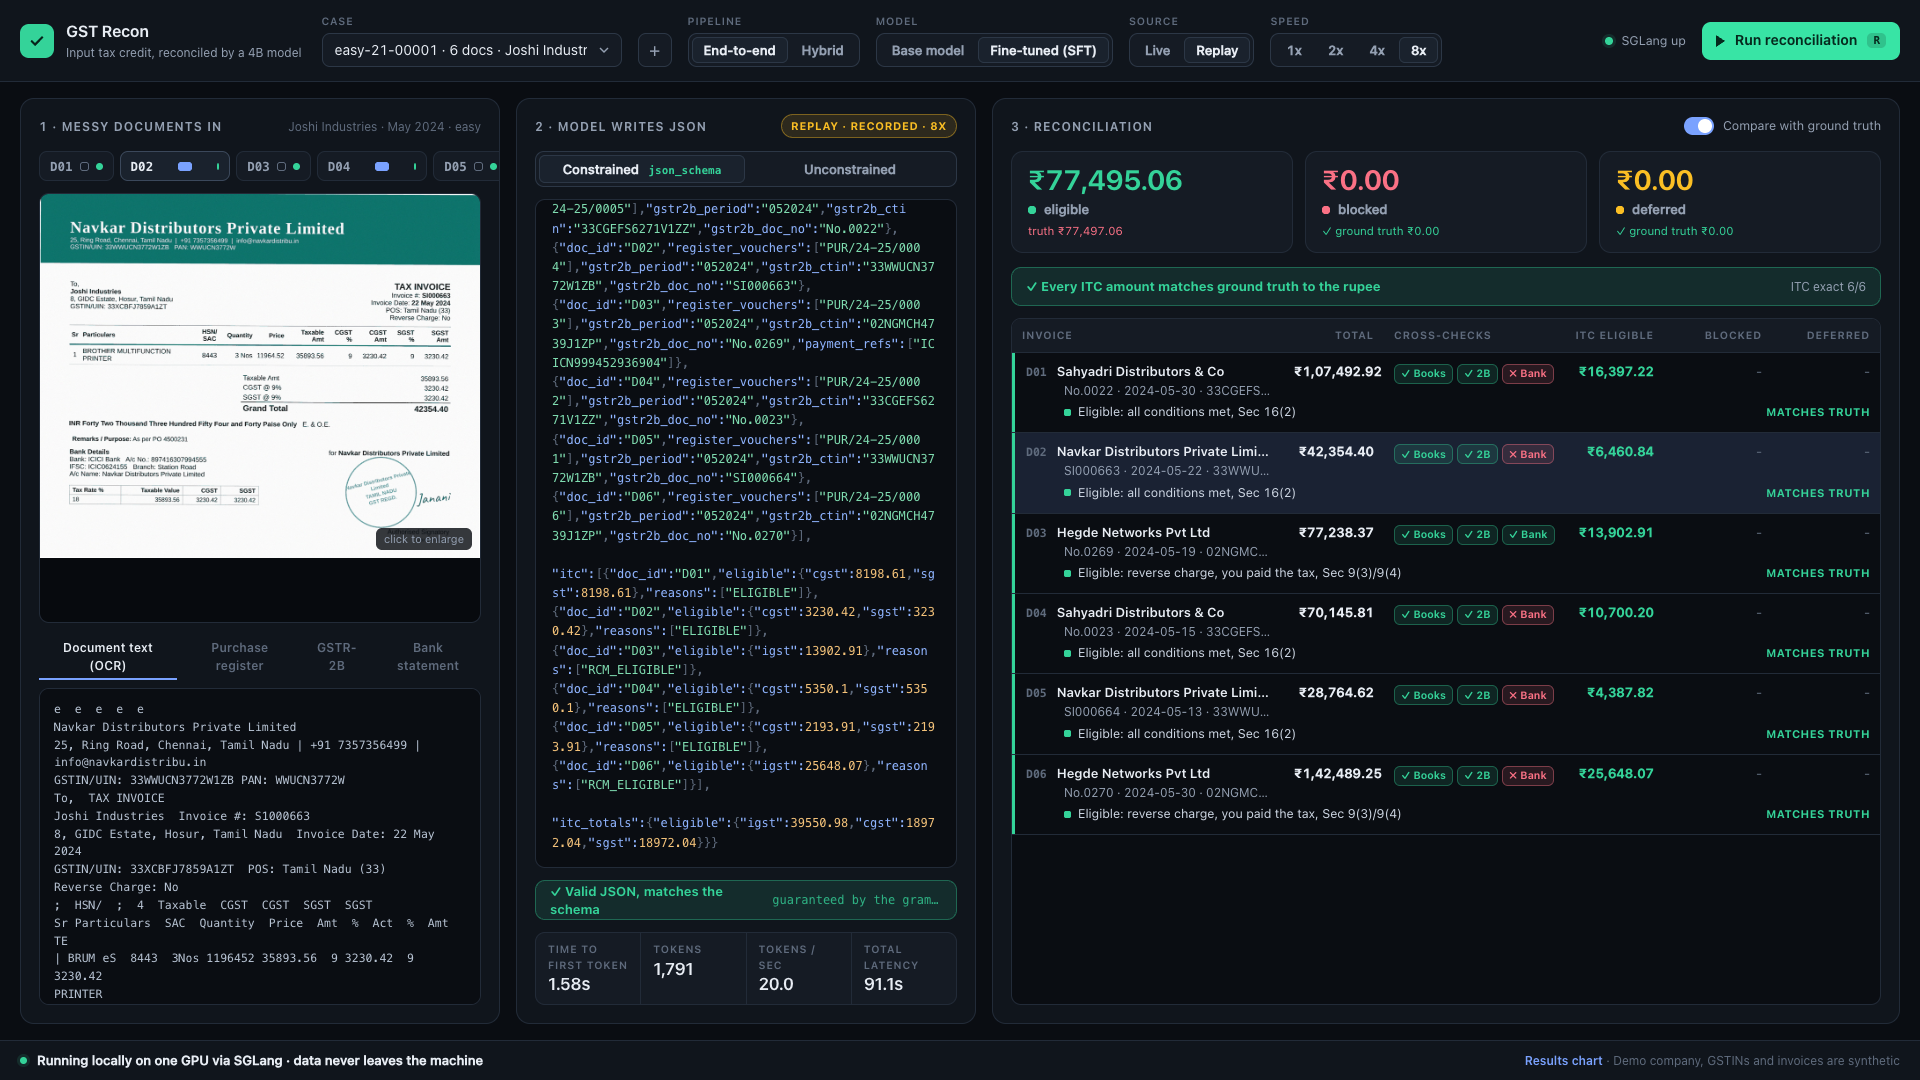
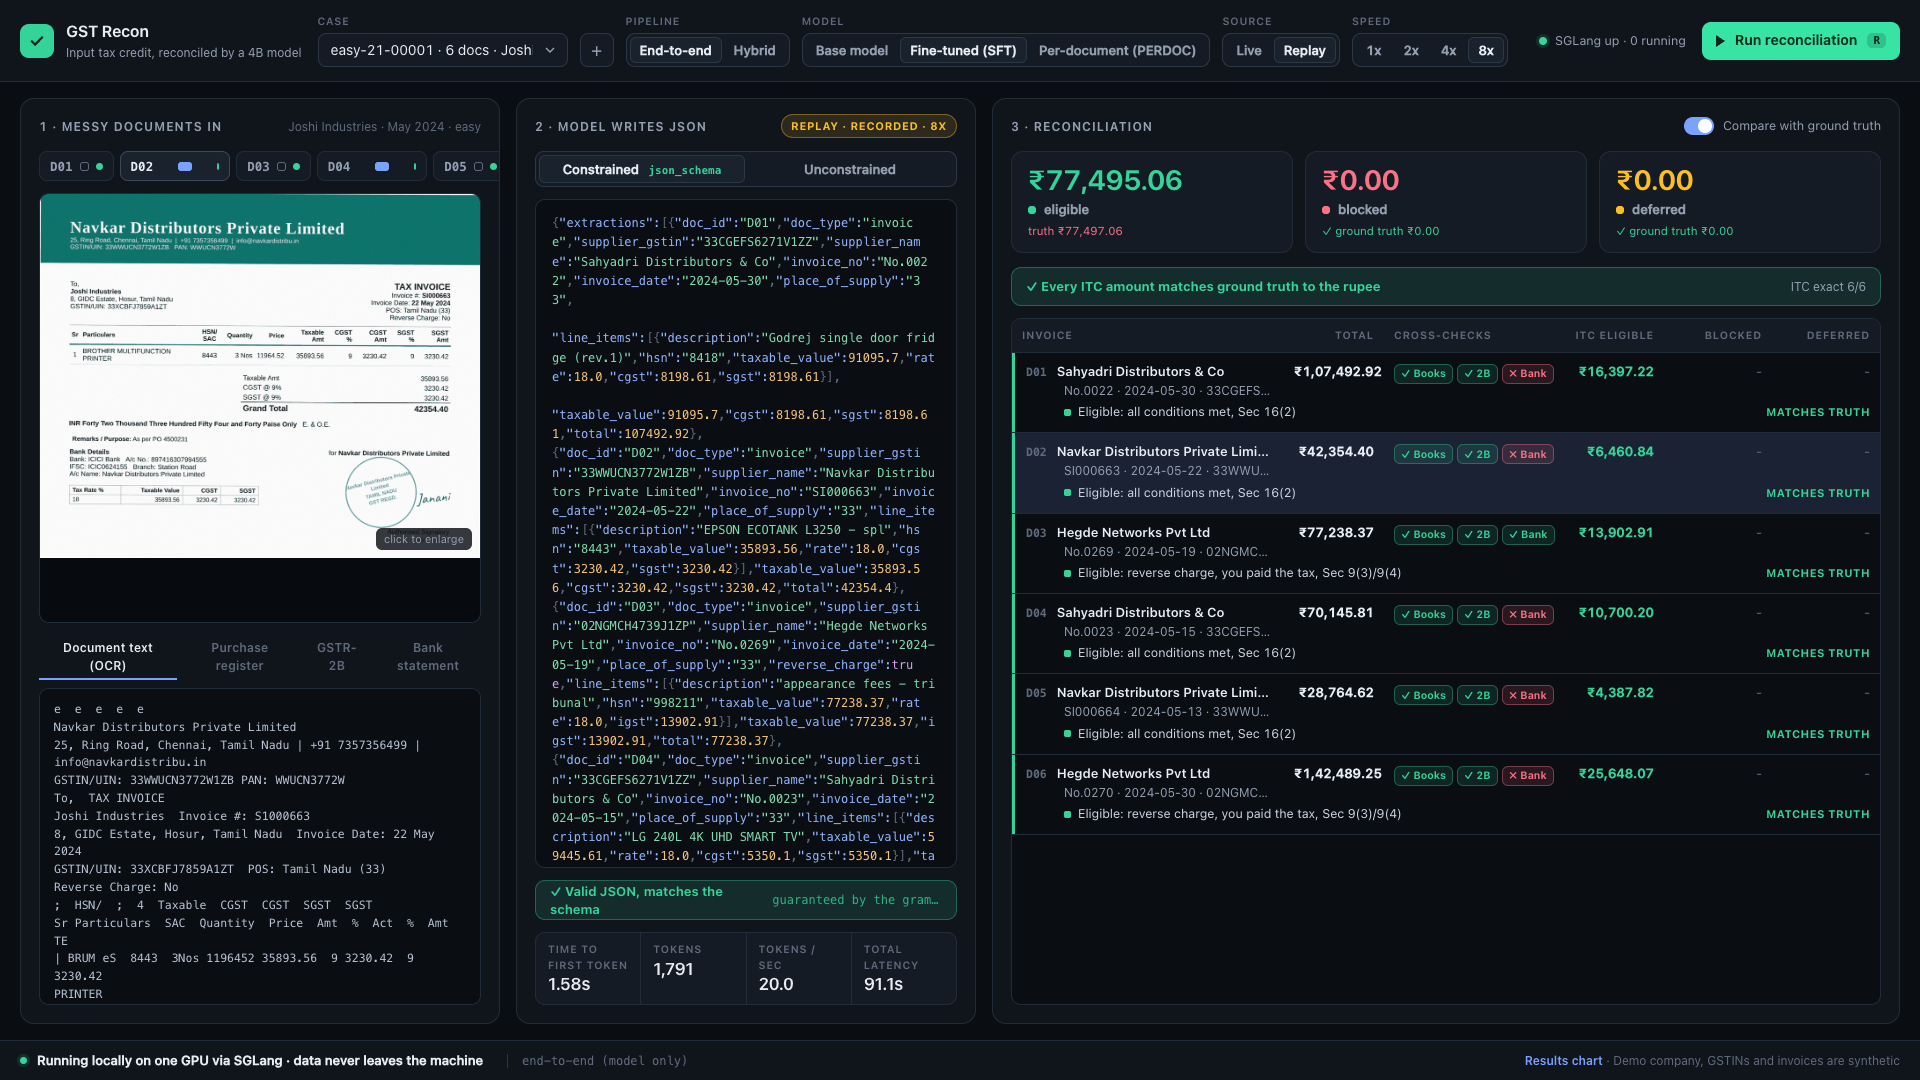
feat(demo): footer shows the reconciler only in hybrid mode (end-to-end: model only); re-shoot screenshots; add VIDEO_PLAN.md shot list

diff --git a/demo/static/app.js b/demo/static/app.js
@@ -33,12 +33,18 @@ async function boot() {
   await selectCase(new URLSearchParams(location.search).get("case") || S.cases[0]?.id);
 }
 
+// Footer: which code produced the table. Hybrid runs the code reconciler; end-to-end is the model alone.
+function renderPipelineNote() {
+  const rv = $("reconVer"), rec = S.health && S.health.reconciler;
+  const hy = S.kind === "hybrid";
+  rv.hidden = hy && !rec;
+  rv.textContent = hy ? `reconciler ${rec}` : "end-to-end (model only)";
+}
+
 async function refreshHealth() {
   try { S.health = await api("/api/health"); } catch { S.health = { live: false }; }
   const el = $("srvStatus"), h = S.health;
-  const rv = $("reconVer");
-  rv.hidden = !h.reconciler;
-  rv.textContent = h.reconciler ? `reconciler ${h.reconciler}` : "";
+  renderPipelineNote();
   el.className = "srv " + (h.live ? "up" : "down");
   el.querySelector("span").textContent = h.live
     ? `SGLang up${h.running != null ? ` \u00B7 ${h.running} running` : ""}`
@@ -107,6 +113,7 @@ function syncControls() {
   $("modelSeg").innerHTML = usable.map((m) =>
     `<button data-model="${esc(m.name)}" aria-pressed="${m.name === S.model}" title="${esc(m.name)}">${esc(m.label)}</button>`).join("");
   for (const b of $("kindSeg").children) b.setAttribute("aria-pressed", b.dataset.kind === S.kind);
+  renderPipelineNote();
   for (const b of $("modeSeg").children) b.setAttribute("aria-pressed", b.dataset.mode === S.mode);
   for (const b of $("speedSeg").children) b.setAttribute("aria-pressed", +b.dataset.speed === S.speed);
   for (const b of $("conSeg").children) b.setAttribute("aria-pressed", (b.dataset.con === "1") === S.constrained);

diff --git a/demo/VIDEO_PLAN.md b/demo/VIDEO_PLAN.md
@@ -1,0 +1,115 @@
+# Submission video plan (3:00 hard limit, target 2:55)
+
+This plan uses only recorded runs, replayed through the demo app, so the video needs no GPU and cannot stall.
+Every run on screen is a real run saved in `recordings/`; the app labels it "REPLAY · RECORDED · 8x" in the middle panel, and that badge must stay visible in every replay shot.
+Voice-over is the user's own voice, no face cam: each `VO` block below is a prompt for what to say, not a script to read word for word.
+Numbers in the prompts come from the screen or from `reports/`; say them only as they appear.
+The sponsor-tool cards (AlignTune, AuditKIT, CuratorKIT) and the QR close from `pitch/DEMO_SCRIPT.md` shots 6 and 7 are not in this plan; if they are wanted, cut shot 2 to 10 s and shot 5 to 20 s to make room.
+
+## Setup before recording
+
+```bash
+cd demo && uv run uvicorn gst_demo.app:app --port 8765    # no tunnel needed, replay only
+```
+
+- Open `http://localhost:8765/` at 1920x1080, browser zoom 100%, dark theme, bookmarks bar and tabs hidden, nothing else in the frame.
+- Source = Replay, Speed = 8x, "Compare with ground truth" on.
+- With no tunnel the status pill reads "Offline · 10 recorded runs"; that is accurate for a replay, leave it.
+- No hostnames, usernames or paths appear in the app; do not open a terminal in frame.
+- Dry-run each shot once, then record each as its own clip so a slip costs one clip, not the take.
+
+## Shot list
+
+### Shot 1 - The problem and the promise (0:00 to 0:15)
+
+Screen: the idle app on the hard case (`test_iid-hard-23-00001`), left panel showing the scan `D05`, footer visible: "Running locally on one GPU via SGLang · data never leaves the machine".
+Caption on screen: "Synthetic data" (the footer already says the company and invoices are synthetic).
+
+VO prompt: every month a company works out how much GST credit it can claim; the inputs are invoices, bank statement and supplier list; that is data you do not want in a cloud API, so this runs on one GPU on the machine.
+
+### Shot 2 - Messy documents in (0:15 to 0:30)
+
+Screen: left panel only.
+Click D05 (the skewed, stamped scan), pause 3 s, click `Document text (OCR)`, then click the Purchase register, GSTR-2B and Bank statement tabs, 2 s each.
+D01 shows "No scan for this document: it arrived as email or WhatsApp text"; click D01 and show its OCR text ("good morning sir. bill attached", Taj Mahal tea, Uttam sugar, "annual day celebration").
+
+VO prompt: scans, photos and a WhatsApp message; Tesseract turns them into text; the model reads that text, so a bad scan can lose a field.
+
+### Shot 3 - Per-document hybrid on the hard case (0:30 to 1:05)
+
+Screen: Pipeline = Hybrid, Model = Per-document (PERDOC), press Run (R).
+The 23 document chips tick off one by one (recorded run is 208 s; at 8x it takes about 30 s), then the line "Then: code reconciler, no model" appears (about 0.25 s), then the table fills.
+Hold 3 s on the finished screen: headline cards and "ITC exact 19/23" with ground truth on.
+Overlay text for this shot: "REPLAY, 8x speed. Recorded run: 208 s, 6,330 tokens, 23 documents."
+
+VO prompt: a 4B model reads one document at a time, constrained to a JSON schema so it can only produce valid output; then ordinary code does the matching to the books, GSTR-2B and bank, and applies the tax rules; 19 of 23 invoices are exactly right on the hard case, and the headline totals are still off from the truth (eligible and deferred), which the comparison view shows rather than hides.
+
+### Shot 4 - Tea and sugar, blocked, with the reason (1:05 to 1:35)
+
+Screen: scroll the table to the top (it opens the first two blocked or deferred rows automatically).
+Row D01, Shree Global: "Blocked: food and beverages, Sec 17(5)(b)(i)", blocked ₹5,713.44, "MATCHES TRUTH".
+Slowly pan the open trace: "Taj Mahal tea was read as food and beverages, for staff welfare: blocked", "Uttam sugar (Lot 2)" the same, GSTR-2B entry matched, purchase register voucher matched, "215 days since the invoice, fully paid".
+Flip to the left panel and show the D01 OCR text with the remark "annual day celebration" for 3 s, then back to the table.
+
+VO prompt: this is tea and sugar for an annual day celebration; the model reads the line items and the purpose; the code blocks ₹5,713.44 and cites section 17(5)(b)(i); the trace says why in plain words, so an accountant can check it.
+
+Do not show the "caterer buys the same sugar" re-run: the app has no recording for it.
+If the point is wanted, say it in words only: a caterer buying the same sugar could claim it, so the buyer matters.
+
+### Shot 5 - End-to-end versus hybrid: the 180-day rule (1:35 to 2:20)
+
+Part A, end-to-end (about 20 s).
+Switch Pipeline to End-to-end, Model to Fine-tuned (SFT), Run.
+The JSON streams token by token in the middle panel (recorded run: 142 s, 8,044 tokens, 57 tok/s; at 8x about 18 s).
+Overlay text: "REPLAY, 8x speed. One call, whole case, model only."
+When it finishes, point at the headline: deferred ₹0.00 against truth ₹5,07,180.51, "ITC exact 15/23".
+Open D02, Chawla Networks (₹17,00,498.75): the model puts ₹2,59,398.12 under ITC eligible, while the truth is deferred ("Unpaid over 180 days, Sec 16(2), Rule 37").
+
+Part B, hybrid (about 20 s).
+Switch back to Hybrid, Per-document (PERDOC), replay; jump to the finished table (re-run at 8x or cut to a saved clip).
+Open D02 and show the trace: "Payment: 204 days since the invoice, ₹17,00,498.75 of ₹17,00,498.75 unpaid; unpaid for over 180 days, credit must be reversed", deferred ₹2,59,398.14, "MATCHES TRUTH".
+The date arithmetic is code, not a model guess.
+
+VO prompt: on the same case, the end-to-end model never defers an invoice that is unpaid for more than 180 days, so it claims credit the law says must be reversed; in hybrid the model only reads, and the code counts the days against the bank statement.
+
+Honest framing, say it or caption it: these are two different models (the whole-case SFT adapter versus the per-document adapter), so this contrast compares two pipelines, not one model in two modes.
+Do not use the medium case for this contrast: there the end-to-end SFT run (9/13 exact) beats the SFT hybrid run (3/13 exact).
+
+### Shot 6 - The results chart (2:20 to 2:50)
+
+Screen: open `http://localhost:8765/results` (the footer link "Results chart"); the bars animate in.
+Walk left to right: code alone 10.4, SFT end-to-end 10.9 (format mismatch footnote), base hybrid 55.2, SFT hybrid 46.8, per-doc v1 62.9, v2 73.1, v3 79.9, GRPO as a dashed TODO bar; then teacher 30B 59.8 and Claude Sonnet 96.3 on the right.
+Then the side panel: per-document v3 context accuracy 82.7% and overclaim Rs 27,183 per case, against the teacher at 38.8% and Rs 3,83,144.
+Footer text on the page: ITC invoice exact, 120 simulator test cases, every number cites its commit.
+
+VO prompt: ITC invoice exact on 120 held-out simulator cases; code alone is 10; the per-document model with better reconciler versions climbs from 63 to 80 on the same model replies; the 30B teacher is 60 and Claude Sonnet is 96, so we are not claiming to beat a frontier model; the local model overclaims far less than the teacher.
+If GRPO numbers have landed by recording time, update `static/results.json` first and say the number; otherwise leave the dashed bar and say "GRPO is still training".
+
+### Shot 7 - Honest close (2:50 to 3:00)
+
+Screen: back to the live app footer, or a plain card: "Trained and tested on a simulator", "Code and evals are open".
+
+VO prompt: this is trained and tested on a simulator, so the limits are real; private financial reasoning on one GPU; code and evals are in the repo.
+
+## Honesty checklist
+
+- Every table, stream and trace is a replay of a real recorded run; the replay badge is visible in shots 3 and 5.
+- Sped-up segments carry the "8x" label.
+- The hard-case hybrid run is 19/23 exact, not perfect; the headline totals differ from truth and the video says so.
+- The reconciler version is in the footer in hybrid mode (`reconciler 8286f1f`), and "end-to-end (model only)" in end-to-end mode.
+- The SFT end-to-end bar on the chart is a format mismatch (strict grammar), footnoted on the page; the compact-grammar number is the end-to-end SFT run in shot 5.
+- The "caterer buys the same sugar" re-run is not supported by the app and is not shown.
+
+## Timing summary
+
+| Shot | Start | Length |
+|---|---|---|
+| 1 Problem | 0:00 | 15 s |
+| 2 Messy documents | 0:15 | 15 s |
+| 3 Per-document hybrid, hard case | 0:30 | 35 s |
+| 4 Tea and sugar blocked, trace | 1:05 | 30 s |
+| 5 End-to-end versus hybrid | 1:35 | 45 s |
+| 6 Results chart | 2:20 | 30 s |
+| 7 Close | 2:50 | 10 s |
+
+If it runs over 3:00, cut in this order: shot 2's register, 2B and bank tab tour, then the second half of shot 5 part A (the JSON stream), then the overclaim panel in shot 6.
